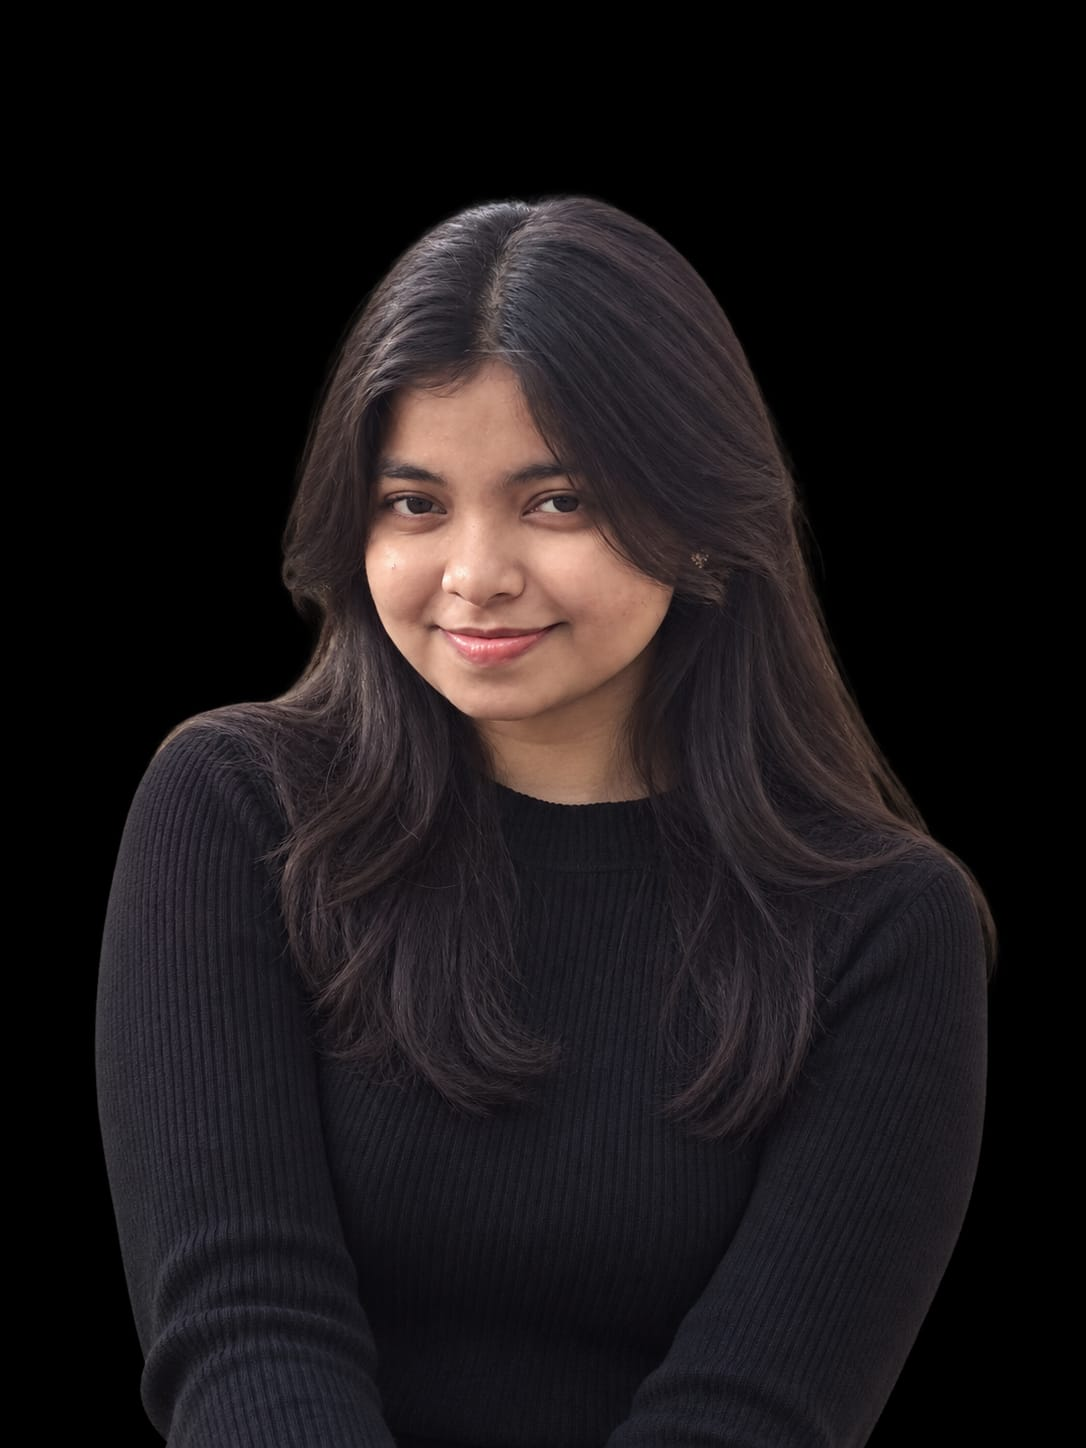
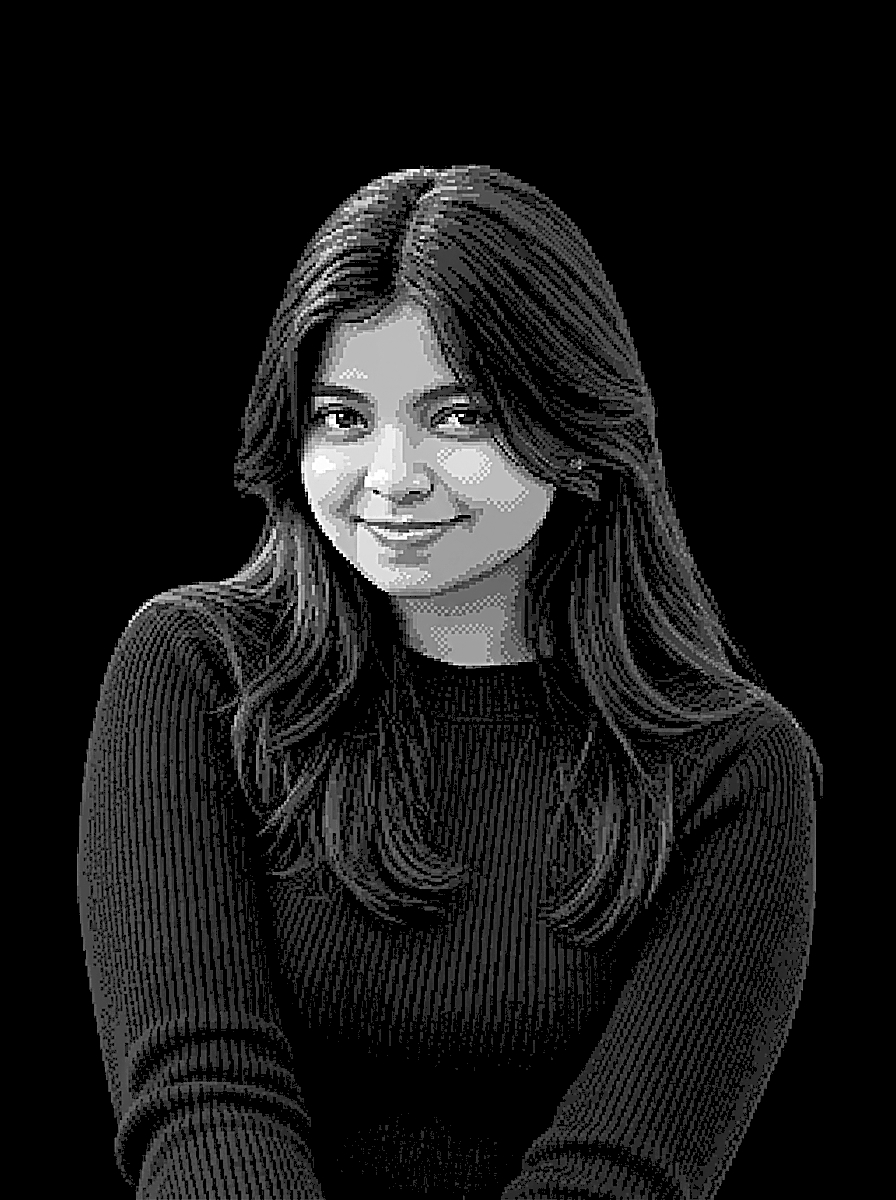
image

diff --git a/src/components/ParticlePortrait.jsx b/src/components/ParticlePortrait.jsx
@@ -1,10 +1,7 @@
 import { useEffect, useRef } from "react";
 import "./ParticlePortrait.css";
 
-// darkest -> lightest. Dense chars = dark pixels, sparse chars = light pixels.
-const RAMP = "@%#*+=-:. ";
-
-export default function ParticlePortrait({ image = "/assets/profile.png" }) {
+export default function ParticlePortrait({ image = "/assets/profile.jpg" }) {
   const canvasRef = useRef(null);
   const containerRef = useRef(null);
 
@@ -15,15 +12,19 @@ export default function ParticlePortrait({ image = "/assets/profile.png" }) {
 
     let width, height;
     let particles = [];
-    const mouse = { x: -999, y: -999 };
 
-    // ---- settings you can tweak ----
-    const CELL = 8;              // spacing between characters (grid size)
-    const COLOR = "197, 145, 74"; // amber, as "r, g, b"
-    const GRAVITY = 0.3;
-    const EASE = 0.08;
-    const MOUSE_RADIUS = 70;
-    const MOUSE_PUSH = 6;
+    // Raw mouse position — instant
+    const mouse = { x: -9999, y: -9999 };
+    // Smoothly interpolated scanner lens position — glides elegantly
+    const lens = { x: -9999, y: -9999 };
+    let lensVisible = false;
+
+    const CELL        = 3.5;
+    const COLOR       = "255, 255, 255";
+    const GRAVITY     = 0.35;
+    const EASE        = 0.1;
+    const LENS_RADIUS = 72;   // Scanner lens radius in px
+    const LENS_LERP   = 0.14; // Smooth glide factor (0 = frozen, 1 = instant)
 
     const img = new Image();
     img.src = image;
@@ -31,10 +32,10 @@ export default function ParticlePortrait({ image = "/assets/profile.png" }) {
 
     function setup() {
       const rect = container.getBoundingClientRect();
-      width = canvas.width = rect.width;
+      width  = canvas.width  = rect.width;
       height = canvas.height = rect.height;
 
-      const w = Math.min(width * 0.8, 420);
+      const w = Math.min(width * 0.85, 450);
       const h = w * (img.height / img.width);
       const hidden = document.createElement("canvas");
       hidden.width = w;
@@ -43,72 +44,112 @@ export default function ParticlePortrait({ image = "/assets/profile.png" }) {
       hctx.drawImage(img, 0, 0, w, h);
       const pixels = hctx.getImageData(0, 0, w, h).data;
 
-      const offsetX = width / 2 - w / 2;
+      const offsetX = width  / 2 - w / 2;
       const offsetY = height / 2 - h / 2;
 
       particles = [];
 
       for (let y = 0; y < h; y += CELL) {
         for (let x = 0; x < w; x += CELL) {
-          const i = (y * w + x) * 4;
-          const alpha = pixels[i + 3];
-          if (alpha < 128) continue; // transparent = removed background
+          const i = (Math.floor(y) * w + Math.floor(x)) * 4;
+          const r = pixels[i], g = pixels[i + 1], b = pixels[i + 2], a = pixels[i + 3];
 
-          const brightness = (pixels[i] + pixels[i + 1] + pixels[i + 2]) / 3;
+          if (a < 30) continue;
 
-          // pick a character by brightness — darker pixel = denser char
-          const charIndex = Math.floor((brightness / 255) * (RAMP.length - 1));
-          const char = RAMP[charIndex];
-          if (char === " ") continue; // skip near-white pixels entirely
+          const brightness = r * 0.299 + g * 0.587 + b * 0.114;
+          if (brightness < 18) continue;
 
-          const targetX = offsetX + x;
-          const targetY = offsetY + y;
+          const normLum     = Math.min(1, Math.max(0, (brightness - 18) / 237));
+          const targetX     = offsetX + x;
+          const targetY     = offsetY + y;
+          const baseOpacity = Math.min(1, 0.4 + normLum * 0.6);
+          const pixelSize   = Math.max(1.8, CELL * 0.85 * (0.6 + normLum * 0.4));
 
           particles.push({
-            x: targetX + (Math.random() - 0.5) * 100,
+            x: targetX + (Math.random() - 0.5) * 60,
             y: -Math.random() * height,
             targetX,
             targetY,
             vy: 0,
-            char,
+            size: pixelSize,
+            baseOpacity,
+            currentOpacity: baseOpacity,
           });
         }
       }
     }
 
+    function drawScannerRing() {
+      if (!lensVisible) return;
+
+      ctx.save();
+
+      // Outer soft glow halo
+      const grad = ctx.createRadialGradient(
+        lens.x, lens.y, LENS_RADIUS - 12,
+        lens.x, lens.y, LENS_RADIUS + 16
+      );
+      grad.addColorStop(0,    "rgba(255,255,255,0.00)");
+      grad.addColorStop(0.35, "rgba(255,255,255,0.22)");
+      grad.addColorStop(0.65, "rgba(255,255,255,0.10)");
+      grad.addColorStop(1,    "rgba(255,255,255,0.00)");
+
+      ctx.beginPath();
+      ctx.arc(lens.x, lens.y, LENS_RADIUS + 16, 0, Math.PI * 2);
+      ctx.fillStyle = grad;
+      ctx.fill();
+
+      // Crisp white ring stroke
+      ctx.beginPath();
+      ctx.arc(lens.x, lens.y, LENS_RADIUS, 0, Math.PI * 2);
+      ctx.strokeStyle = "rgba(255,255,255,0.5)";
+      ctx.lineWidth = 1.2;
+      ctx.stroke();
+
+      ctx.restore();
+    }
+
     function animate() {
       ctx.clearRect(0, 0, width, height);
-      ctx.font = `${CELL}px monospace`;
-      ctx.textAlign = "center";
-      ctx.textBaseline = "middle";
-      ctx.fillStyle = `rgba(${COLOR}, 0.9)`;
+
+      // Smoothly glide the scanner lens toward the raw mouse
+      if (lensVisible) {
+        lens.x += (mouse.x - lens.x) * LENS_LERP;
+        lens.y += (mouse.y - lens.y) * LENS_LERP;
+      }
 
       for (const p of particles) {
-        const dx = p.targetX - p.x;
-        const dy = p.targetY - p.y;
+        // Physics: fast settle — NO cursor position shifting ever
+        const dx   = p.targetX - p.x;
+        const dy   = p.targetY - p.y;
         const dist = Math.hypot(dx, dy);
 
-        if (dist > 4) {
+        if (dist > 2) {
           p.vy += GRAVITY;
-          p.x += dx * EASE * 0.3;
-          p.y += p.vy * 0.2 + dy * EASE * 0.3;
-          p.vy *= 0.9;
+          p.x  += dx * EASE * 0.4;
+          p.y  += p.vy * 0.2 + dy * EASE * 0.4;
+          p.vy *= 0.85;
         } else {
           p.x += dx * EASE;
           p.y += dy * EASE;
         }
 
-        const mdx = p.x - mouse.x;
-        const mdy = p.y - mouse.y;
-        const mdist = Math.hypot(mdx, mdy);
-        if (mdist < MOUSE_RADIUS) {
-          const force = (MOUSE_RADIUS - mdist) / MOUSE_RADIUS;
-          p.x += (mdx / mdist) * force * MOUSE_PUSH;
-          p.y += (mdy / mdist) * force * MOUSE_PUSH;
+        // Smooth cosine lens fade: center = transparent, edge = full brightness
+        const mdist = Math.hypot(p.targetX - lens.x, p.targetY - lens.y);
+        if (lensVisible && mdist < LENS_RADIUS) {
+          const t    = mdist / LENS_RADIUS;
+          const fade = (1 - Math.cos(t * Math.PI)) / 2;
+          p.currentOpacity = p.baseOpacity * fade;
+        } else {
+          p.currentOpacity = p.baseOpacity;
         }
 
-        ctx.fillText(p.char, p.x, p.y);
+        ctx.fillStyle = `rgba(${COLOR}, ${p.currentOpacity})`;
+        ctx.fillRect(p.x - p.size / 2, p.y - p.size / 2, p.size, p.size);
       }
+
+      // Draw scanner ring on top of pixels
+      drawScannerRing();
 
       requestAnimationFrame(animate);
     }
@@ -117,10 +158,17 @@ export default function ParticlePortrait({ image = "/assets/profile.png" }) {
       const rect = canvas.getBoundingClientRect();
       mouse.x = e.clientX - rect.left;
       mouse.y = e.clientY - rect.top;
+      if (!lensVisible) {
+        // Snap to cursor on first enter so it doesn't slide in from off-screen
+        lens.x = mouse.x;
+        lens.y = mouse.y;
+        lensVisible = true;
+      }
     }
     function onMouseLeave() {
-      mouse.x = -999;
-      mouse.y = -999;
+      lensVisible = false;
+      mouse.x = -9999;
+      mouse.y = -9999;
     }
 
     window.addEventListener("resize", setup);

diff --git a/src/utils/CursorAnimation.jsx b/src/utils/CursorAnimation.jsx
@@ -1,48 +1,106 @@
-import React, { useEffect, useState } from "react";
-import { motion } from "framer-motion";
+import { useEffect, useRef } from "react";
 
 export default function CustomCursor() {
-  const [cursorPosition, setCursorPosition] = useState({ x: 0, y: 0 });
-  const [cursorSize, setCursorSize] = useState(32); // Default size
+  const ringRef = useRef(null);
+  const dotRef = useRef(null);
+  const pos = useRef({ x: 0, y: 0 });
+  const ring = useRef({ x: 0, y: 0 });
+  const size = useRef(28);
+  const targetSize = useRef(28);
+  const rafId = useRef(null);
 
   useEffect(() => {
-    const handleMouseMove = (e) => {
-      setCursorPosition({ x: e.clientX, y: e.clientY });
-    };
+    const ringEl = ringRef.current;
+    const dotEl = dotRef.current;
 
-    const handleMouseOverText = () => {
-      setCursorSize(80); // Increase cursor size when hovering over text
-    };
+    function onMouseMove(e) {
+      pos.current = { x: e.clientX, y: e.clientY };
+    }
 
-    const handleMouseLeaveText = () => {
-      setCursorSize(32); // Reset cursor size when leaving text
-    };
+    function onMouseEnterInteractive() {
+      targetSize.current = 56;
+    }
+    function onMouseLeaveInteractive() {
+      targetSize.current = 28;
+    }
 
-    // Select all text elements
-    const textElements = document.querySelectorAll("p, h1, h2, h3, h4, h5, h6");
-
-    textElements.forEach((el) => {
-      el.addEventListener("mouseenter", handleMouseOverText);
-      el.addEventListener("mouseleave", handleMouseLeaveText);
+    const interactives = document.querySelectorAll(
+      "a, button, p, h1, h2, h3, h4, h5, h6, input, textarea, [role='button']"
+    );
+    interactives.forEach((el) => {
+      el.addEventListener("mouseenter", onMouseEnterInteractive);
+      el.addEventListener("mouseleave", onMouseLeaveInteractive);
     });
 
-    window.addEventListener("mousemove", handleMouseMove);
+    window.addEventListener("mousemove", onMouseMove);
+
+    function tick() {
+      // Tiny dot: perfectly instant
+      dotEl.style.transform = `translate(${pos.current.x - 3}px, ${pos.current.y - 3}px)`;
+
+      // Ring: silky smooth lerp follow
+      ring.current.x += (pos.current.x - ring.current.x) * 0.18;
+      ring.current.y += (pos.current.y - ring.current.y) * 0.18;
+      size.current += (targetSize.current - size.current) * 0.14;
+
+      const s = size.current;
+      ringEl.style.transform = `translate(${ring.current.x - s / 2}px, ${ring.current.y - s / 2}px)`;
+      ringEl.style.width = `${s}px`;
+      ringEl.style.height = `${s}px`;
+      ringEl.style.opacity = targetSize.current === 56 ? "0.6" : "0.85";
+
+      rafId.current = requestAnimationFrame(tick);
+    }
+
+    rafId.current = requestAnimationFrame(tick);
 
     return () => {
-      textElements.forEach((el) => {
-        el.removeEventListener("mouseenter", handleMouseOverText);
-        el.removeEventListener("mouseleave", handleMouseLeaveText);
+      cancelAnimationFrame(rafId.current);
+      window.removeEventListener("mousemove", onMouseMove);
+      interactives.forEach((el) => {
+        el.removeEventListener("mouseenter", onMouseEnterInteractive);
+        el.removeEventListener("mouseleave", onMouseLeaveInteractive);
       });
-      window.removeEventListener("mousemove", handleMouseMove);
     };
   }, []);
 
   return (
-    <motion.div
-      className="fixed bg-white rounded-full pointer-events-none mix-blend-difference z-50"
-      style={{ width: cursorSize, height: cursorSize }}
-      animate={{ x: cursorPosition.x - cursorSize / 2, y: cursorPosition.y - cursorSize / 2 }}
-      transition={{ type: "spring", stiffness: 200, damping: 20 }}
-    />
+    <>
+      {/* Outer ring — smooth lag follow */}
+      <div
+        ref={ringRef}
+        style={{
+          position: "fixed",
+          top: 0,
+          left: 0,
+          width: 28,
+          height: 28,
+          borderRadius: "50%",
+          border: "1.5px solid rgba(255,255,255,0.85)",
+          pointerEvents: "none",
+          zIndex: 9999,
+          mixBlendMode: "difference",
+          willChange: "transform, width, height",
+          transition: "opacity 0.2s ease",
+        }}
+      />
+      {/* Center dot — zero lag */}
+      <div
+        ref={dotRef}
+        style={{
+          position: "fixed",
+          top: 0,
+          left: 0,
+          width: 6,
+          height: 6,
+          borderRadius: "50%",
+          background: "white",
+          pointerEvents: "none",
+          zIndex: 9999,
+          mixBlendMode: "difference",
+          willChange: "transform",
+        }}
+      />
+    </>
   );
 }

diff --git a/src/components/ParticlePortrait.css b/src/components/ParticlePortrait.css
@@ -2,7 +2,7 @@
   width: 100%;
   height: 100%;
   min-height: 420px;
-  background: #0a0a0a;
+  background: transparent;
   border-radius: 12px;
   overflow: hidden;
 }
